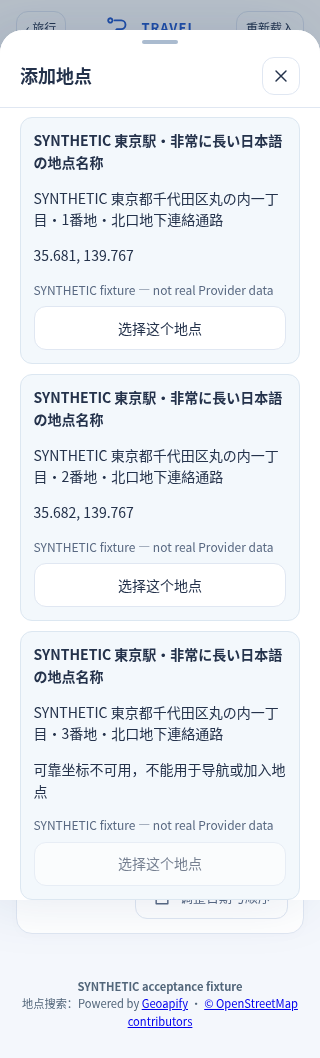
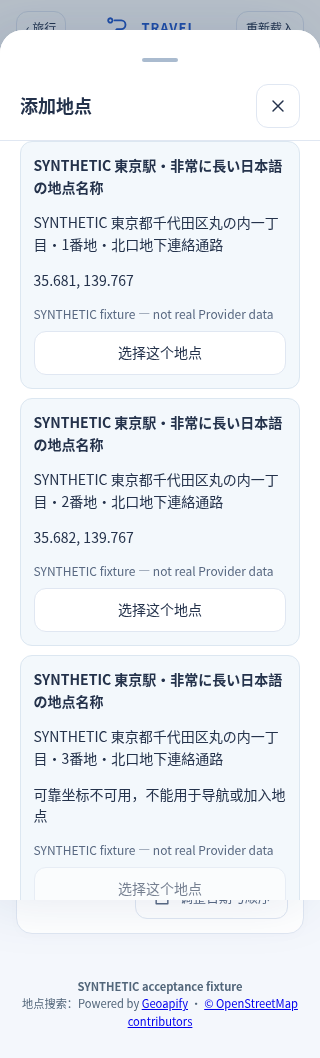
docs(place-search): refresh integrated visual and acceptance evidence

Changed region(s): [[0.0625, 0.0624, 0.9375, 0.8733], [0.7812, 0.2495, 0.8438, 0.3119], [0.4375, 0.0312, 0.5625, 0.0624]]

diff --git a/docs/status/PLACE-SEARCH-GEOCODING-FOUNDATION.md b/docs/status/PLACE-SEARCH-GEOCODING-FOUNDATION.md
@@ -1,6 +1,6 @@
 # Formal Place Search / Geocoding Foundation
 
-Recommendation: GPT-5.6 Sol / High; fallback GPT-6.1 Sol / High. Runtime model was not changed or claimed. Starting main: `77b37ac1931b5ffe653bc147eebf90949258e94c`. Branch: `feat/place-search-geocoding`. Draft only; no merge or deployment.
+Recommendation: GPT-5.6 Sol / High; fallback GPT-6.1 Sol / High. Runtime model was not changed or claimed. Starting main: `77b37ac1931b5ffe653bc147eebf90949258e94c`. Branch: `feat/place-search-geocoding`. Integration base: `f407765675b3290a6aac01fbfd90506c150943bb`. Draft only; no merge or deployment.
 
 ## Architecture matrix
 
@@ -60,7 +60,7 @@ Selection is local draft state. Search input/language/cancel never creates a Pla
 
 Maps/navigation use the selected Place's stored reliable coordinates through existing helpers. No embedded SDK, automatic authoring, geolocation, Query/Preview/Adopt, hotel guessing, recommendations, booking, photos/reviews, OCR/attachments, P6C or Google Transit work.
 
-## Validation evidence
+## Previous fixture-only validation evidence (historical)
 
 All test inputs/captures explicitly **SYNTHETIC**. Public-doc research is not a live Provider test.
 
@@ -91,13 +91,25 @@ Focused regression: five Unit cases include immediately before/after Tokyo midni
 
 Repair delta is confined to acceptance fixtures/helpers/regressions and documentation. Production application/Domain/Provider/Web code and Prisma are unchanged relative to the reviewed product. Migration total remains **26**, schema/migration delta **0/0**. Real Geoapify/F-05 stay **OPEN/PARTIAL**, disabled by default, with no live/paid call.
 
-Main advanced during this task to `f407765675b3290a6aac01fbfd90506c150943bb` (mobile Safari/touch hardening). PR #46 has Web conflicts with this later batch. No rebase or integration is performed without scope clarification; fixture validation does not claim that later-main integration passed. Final exact HEAD, CI and validation results are recorded in PR #46.
+The previous fixture-only delivery (`61733cd808a374826359db4e9b94d72979867838`) was blocked by later main Safari/touch changes and therefore was not marked RESOLVED. The user has now explicitly authorized integration of that exact main. Historical local results are not final integrated-head CI evidence.
 
-Validated repair HEAD: `0f49f2e3b9a75cf2c9844cd67ff0a7e84575d659`. Frozen install, Prisma generate/validate, format/lint/typecheck/build, Unit **773/69 files**, PostgreSQL **627 (106 persistence + 521 API)**, Chromium **152**, WebKit **152**, clean migration deploy **26**, and full Compose **PASS** locally. The eight PostgreSQL boundary regressions pass within the complete API suite; the two original-fixture negative controls retain their exact Preview errors. Full Compose passes Ground/handoff/suffix and trusted external-origin Query/Preview/Adopt/Undo, along with the existing lifecycle, persistence, outage/recovery and private-storage checks. An initial local run failed earlier in F-09 location with HTTP 503, before reaching Ground; this is recorded as nonpassing evidence, and the frozen-source full run passes all assertions. No test or TLS change was made. P5B **PASS**: 5 users, 200 observed requests, 0 isolation failures, 0 unexpected 5xx and 0 network failures.
+## Safari/touch integration — final acceptance in progress
 
-**NOT RESOLVED / CI BLOCKED:** GitHub confirms `CONFLICTING / DIRTY` against the later Safari/touch main commit. No Actions run/checks exists for the repair HEAD. Earlier green runs are historical only. Do not claim final-head CI PASS or later-main integration; the active CURRENT-TASK remains until the requested successful final CI is possible. A documentation-only follow-up records completed local evidence; its exact final SHA is recorded in PR #46. All runtime/fixture/test files remain identical to the validated repair HEAD.
+Integration base: **`f407765675b3290a6aac01fbfd90506c150943bb`**. Merge commit `cae31e36f5f8d6aaff98ac83b7df441627a37566` retains both the existing feature parent and the main parent. No rebase, cherry-pick, ours/theirs whole-file replacement, main/PR #47/PR #41 change or migration.
+
+The only content conflict was `apps/web/src/styles.css`, where both branches appended rules. Resolve the closing braces and preserve both full blocks: Place Search width/min-width, 44px search controls, wrapping candidate names/addresses and attribution safe-area; followed by main's scalable minimum 16px touch inputs, root-scaled labels/titles and header-aware scroll padding. All main viewport/vh/dvh/safe-area rules elsewhere in the file are retained. There is no input-font override in the Place Search block, so the inherited touch minimum applies to search fields too.
+
+`drawer.ts` is identical to main, retaining the 44px dedicated handle, primary-pointer gate, cancellation/lost-capture reset, unchanged unsaved-draft close callback, VisualViewport fitting/offsets and focus reveal. `main.ts` retains main's dedicated `.drag-zone` frame while also retaining the feature's Place Search authoring bridge and source credits. `authoring.ts` has no integration delta. No new production behavior is implemented beyond preserving the two existing branches.
+
+Four additive **SYNTHETIC** browser cases test Place Search with mobile touch and 24px root text at 320/375/390/430: explicit ambiguous selection, missing-coordinate disabled candidate, 44px handle/close controls, lost capture reset, drag discard cancellation retaining the note and signed-candidate choice, keyboard viewport resize with reachable submit, no overflow, zero writes throughout reading/selection/gestures, and exactly one explicit authoring submission. Existing Place Search/authoring/draft/owner/recovery tests and all inherited mobile/desktop interaction tests remain.
+
+Canonical midnight fixture files and all 13 boundary regression cases are byte-for-byte unchanged from `61733cd`: Tokyo-preferred bounded synthetic context, complete UTC-day minute sweep, exact old-fixture guard failures, trusted Tokyo external hub context and explicit cross-day endpoints. Production Preview/Domain guards are unchanged. Schema/migration delta **0/0**, total **26**.
+
+Integrated validation is running. Unit **773/69 files** and frozen install/Prisma/format/lint/typecheck/build have passed; PostgreSQL, full Chromium, Compose/P5B and final CI remain pending. The four focused joined Chromium cases passed. Final HEAD/CI and complete totals are recorded in PR #46. CURRENT-TASK remains ACTIVE until all final-head CI jobs succeed. Geoapify/F-05 remain **OPEN/PARTIAL**, with real calls disabled and no paid call.
 
 ## Visual review
+
+Integrated Safari/Place Search visuals were regenerated from frozen source: all 11 PNG originals and the nine-panel JPEG contact sheet (**1488 × 4835**, no overflow) were actually opened. Fixtures remain SYNTHETIC.
 
 Committed artifacts: [review-contact-sheet.jpg](assets/place-search/review-contact-sheet.jpg), nine proportion-preserved titled panels, SYNTHETIC, no screenshot crop. Individual captures: mobile-search, mobile-results, mobile-ambiguous, mobile-selected, mobile-provider-unavailable, mobile-saved-fallback, mobile-320, mobile-375, mobile-430, mobile-enlarged, desktop. mobile-results uses 390px. Final originals and the contact sheet are actually opened for review before delivery. The selected confirmation shows name/address/coordinates before addition; primary submit and complete sheet remain scroll reachable.
 

diff --git a/docs/codex/CURRENT-TASK.md b/docs/codex/CURRENT-TASK.md
@@ -1,103 +1,24 @@
-# CURRENT TASK — PR #46 Compose midnight fixture repair
+# CURRENT TASK — PR #46 integrated final acceptance (ACTIVE)
 
-## Execution recommendation
-- Model: GPT-5.6 Sol
-- Thinking: High
+Recommendation: GPT-5.6 Sol / High; fallback available Sol / High. No runtime switch is claimed. Raise effort for time/concurrency regressions.
 
-## Scope
-Continue only the existing Place Search branch and Draft PR #46.
+The user explicitly authorized integrating merged Mobile Safari/Touch main into the existing Place Search branch. This supersedes the previous fixture-only scope; no new feature phase is authorized.
 
-- Branch: `feat/place-search-geocoding`
-- Reviewed product HEAD before this task: `9ee71c4cf7fb1858fc2c4207dfc0396a9f57a253`
-- Starting main: `77b37ac1931b5ffe653bc147eebf90949258e94c`
-- Migration total must remain **26**.
+- PR #46 must remain Open / Draft.
+- Branch: `feat/place-search-geocoding`.
+- Starting HEAD: `61733cd808a374826359db4e9b94d72979867838`.
+- Integration base: `f407765675b3290a6aac01fbfd90506c150943bb`.
+- Migration total: **26**, schema/migration delta **0/0**.
+- Merge integration: `cae31e36f5f8d6aaff98ac83b7df441627a37566`.
 
-Do not merge, deploy, modify PR #41, or start another phase.
+Only conflict: `apps/web/src/styles.css`. Both appended rule groups are retained, with closing braces resolved explicitly. Preserve Place Search candidate/long-text/saved fallback styles and all Safari/touch input/font/viewport/scroll/safe-area rules. Keep drawer 44px handle, lost capture/cancel reset, dirty-draft guard, VisualViewport fitting and vh/dvh fallback. No whole-file ours/theirs replacement.
 
-## Review result
-Place Search itself is not the current blocker. The final-head verify and P5B jobs passed, including Unit 768, PostgreSQL 619, Chromium 152 and WebKit 152. Schema/migration delta is 0/0.
+Keep `scripts/synthetic-route-day.mjs` canonical with Ground/handoff/suffix/external fixture changes and all 13 boundary cases: Tokyo midnight, full UTC-day minute sweep, exact ENDPOINT_DAY_MISMATCH and CROSS_DAY_TRANSFER_LOCATION negative controls, external trusted Tokyo context. Never weaken production Preview/Domain or change clocks/buffers.
 
-The blocking failure is Compose. The existing synthetic Ground Transit acceptance derives a departure from wall-clock `now + 4 minutes` in Asia/Tokyo and then uses a roughly 30-minute route. Near local midnight, that synthetic route crosses the itinerary day boundary and the existing Preview protections correctly reject it with endpoint/day or cross-day-transfer errors.
+Preserve search/cancel zero writes, explicit candidate selection before authoritative authoring, signed owner/Trip evidence, missing-coordinate rejection, local Provider degradation and saved fallback. Geoapify disabled by default; real Provider/F-05 OPEN/PARTIAL; no live/paid call.
 
-This is a nondeterministic acceptance fixture problem. Do **not** weaken Preview/domain protection to make CI green.
+Run complete integrated-head frozen install, Prisma generate/validate, format/lint/typecheck/build, Unit, PostgreSQL, Chromium, WebKit via final CI, Compose and P5B. Old local PASS/CI is not integrated evidence. Four joined mobile Place Search regressions cover 320/375/390/430, 24px text, drag/draft/lost-capture/keyboard protections and explicit write.
 
-## Required repair
-First reproduce/confirm the failing Compose path and identify the exact wall-clock-derived fixture(s).
+Only mark RESOLVED after latest main is integrated, conflicts are resolved and final-head verify (Chromium + WebKit), Compose and P5B CI are completed/success. Record validated HEAD and CI, and final documentation HEAD/CI in PR #46. Stop if main changes from the authorized base.
 
-Make the synthetic Compose Ground Transit scenario deterministic with respect to itinerary-local calendar day.
-
-Preferred characteristics:
-- use a fixed or safely day-bounded synthetic instant/date appropriate to the fixture;
-- keep the entire scenario semantically on the intended DayOccurrence unless the test explicitly intends cross-day behavior;
-- do not depend on the CI runner's current local/UTC time being far from Tokyo midnight;
-- preserve the operational-change assertions the fixture was originally intended to verify.
-
-Audit the same Compose Ground Transit chain for other `Date.now()` / current-time-derived route timestamps that can cross a local day boundary. Fix only equivalent acceptance-fixture nondeterminism.
-
-Do not broadly rewrite Compose or route tests.
-
-## Hard boundaries
-Do not:
-- weaken ENDPOINT_DAY_MISMATCH, CROSS_DAY_TRANSFER_LOCATION or other Preview guards;
-- change route/Adopt/Undo production semantics;
-- change Place Search production behavior merely to solve this blocker;
-- add schema/migration;
-- change migration total from 26;
-- hide the failure by retrying until the clock moves;
-- skip/disable the Ground Transit scenario;
-- loosen assertions/timeouts as a substitute for deterministic fixture data.
-
-The diagnostic-only Compose additions from PR #46 may remain if useful, but remove noisy/debug-only output if it no longer has durable value.
-
-## Place Search review boundaries to preserve
-Keep:
-- search/cancel = zero Trip writes;
-- explicit candidate selection required before authoring;
-- signed owner/Trip-bound candidate evidence;
-- candidates without reliable coordinates cannot be added;
-- Provider outage degrades only search and keeps saved-place fallback;
-- Geoapify remains disabled by default;
-- no real/paid Provider call;
-- F-05 and real Provider acceptance remain OPEN/PARTIAL;
-- schema/migration delta 0/0.
-
-## Regression and validation
-Add or adjust a focused regression/acceptance assertion proving the synthetic Ground Transit fixture is stable around the Tokyo day boundary. If practical, test representative instants immediately before/after local midnight without changing production clock semantics.
-
-Then run the full final-head validation:
-- frozen install
-- Prisma generate/validate
-- format/lint/typecheck/build
-- Unit
-- PostgreSQL integration
-- Chromium
-- WebKit via final CI
-- Compose verification
-- P5B
-
-The new HEAD's Compose job must pass. An older green run or a manual retry outside the boundary is not sufficient evidence.
-
-## Delivery
-Update the existing PR #46 only.
-
-Update `docs/status/PLACE-SEARCH-GEOCODING-FOUNDATION.md` with:
-- root cause;
-- exact fixture repair;
-- proof production Preview guards were unchanged;
-- focused boundary regression;
-- final full validation.
-
-After success, replace this active task with a short **RESOLVED** summary containing the new HEAD and evidence.
-
-Final report:
-- new HEAD;
-- exact files changed for the repair;
-- focused midnight-boundary test result;
-- Unit/PostgreSQL/Chromium/WebKit totals;
-- Compose/P5B;
-- migration total 26;
-- final CI URL;
-- PR remains Draft;
-- real Geoapify/F-05 still OPEN/PARTIAL.
-
-Stop for human review. Do not merge.
+Do not Ready, merge, deploy, modify PR #47 or PR #41, or start another task. Stop for human review after final evidence.
